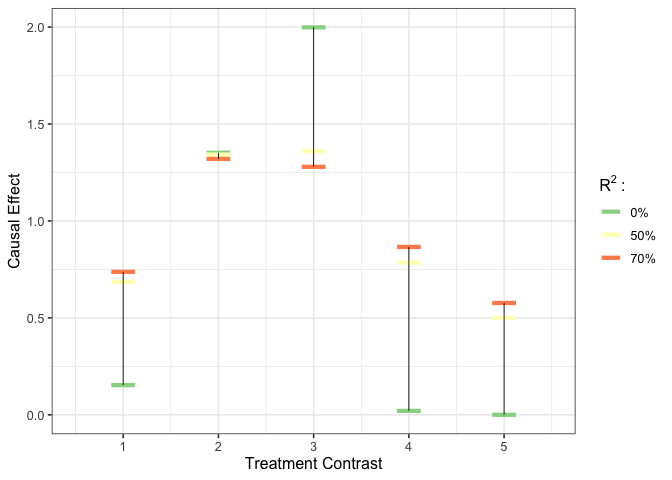
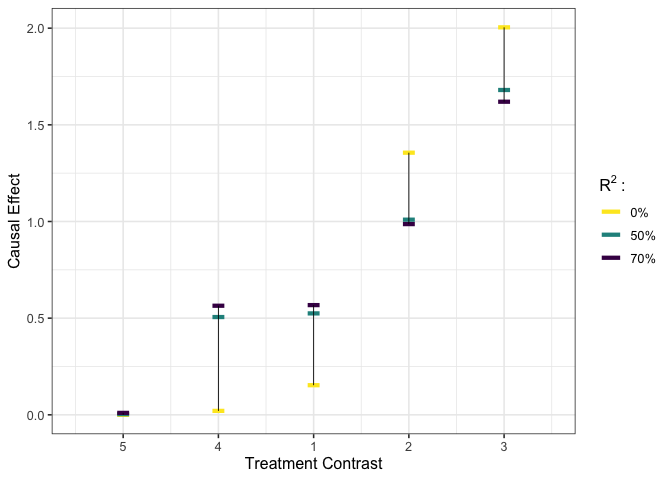
make code compatible with previous cal_rv, plot_estimates changes

diff --git a/README.md b/README.md
@@ -183,14 +183,20 @@ t2 <- matrix(0, ncol = k, nrow = k)
 u_t_diff <- (t1 - t2) %*% t(coef_mu_u_t_hat)
 
 # worst-case calibration #
-R2 <- c(0.3, 0.6, 1)
+R2 <- c(0.15, 0.5, 1)
 worstcase_results <- gcalibrate(y, tr, t1 = t1, t2 = t2, calitype = "worstcase",
                                   mu_y_dt = as.matrix(beta_t), sigma_y_t =  sigma_y_t_hat,
                                   mu_u_dt = u_t_diff, cov_u_t = cov_u_t_hat, R2 = R2)
 #> Worst-case calibration executed.
 rownames(worstcase_results$est_df) <- names(beta_t)
 names(worstcase_results$rv) <- names(beta_t)
+plot_estimates(worstcase_results, order = "worstcase", labels = names(beta_t),
+               axis.text.x = element_text(size = 10, angle = 75, hjust = 1))
+```
 
+<img src="man/figures/README-unnamed-chunk-5-1.png" width="85%" style="display: block; margin: auto;" />
+
+``` r
 ## multivariate calibration ##
 # with L1 norm #
 multcali_results_L1 <- gcalibrate(y, tr, t1 = t1, t2 = t2, calitype = "multicali",
@@ -260,16 +266,19 @@ The only exception, “2010002N04Rik”, whose causal effects by Miao et
 al. (2020) is, nevertheless, quite close to the lower bound.
 
 ``` r
-bound_df <- tibble(x1 = 1:nrow(summary_df)*2,
+bound_df <- tibble(x1 = 1:nrow(summary_df),
                  y1 = summary_df$worstcase_lwr,
-                 x2 = 1:nrow(summary_df)*2,
+                 x2 = 1:nrow(summary_df),
                  y2 = summary_df$worstcase_upr)
+rv_labels <- worstcase_results$rv
+rv_labels[!is.na(worstcase_results$rv)] <- paste0(round(worstcase_results$rv[!is.na(worstcase_results$rv)]), "%")
+rv_labels[is.na(worstcase_results$rv)] <- "R"
 plot_L2NullWorst <-
-  data.frame(summary_df[,c(1,3,4,6:7)], case = 1:nrow(summary_df)*2) %>%
+  data.frame(summary_df[,c(1,3,4,6:7)], case = 1:nrow(summary_df)) %>%
     gather(key = "Type", value = "effect", - case) %>%
     ggplot() +
     ungeviz::geom_hpline(aes(x = case, y = effect, col = Type),
-                         width = 0.5, size = 1, alpha = 0.8)  +
+                         width = 0.4, size = 1, alpha = 0.8)  +
     geom_segment(data = bound_df, aes(x=x1, y=y1, xend=x2, yend=y2)) +
     scale_colour_manual(name = "",
                         values = c("#FFC300", "#F5191C", "#3B99B1", "black", "black"),
@@ -279,10 +288,10 @@ plot_L2NullWorst <-
                                    "naive",
                                    bquote("worstcase"~R^2~" = 1, lower"),
                                    bquote("worstcase"~R^2~" = 1, upper"))) +
-    scale_x_continuous(breaks = (1:k)*2, labels = order_name,
-                       limits = c(0.5, k*2 + 1.2)) +
-    annotate(geom = "text", x = 1:nrow(summary_df)*2 + 1.1, y = worstcase_results$est_df[order_name,'R2_0'],
-                      size = 3, label = worstcase_results$rv[order_name]) +
+    scale_x_continuous(breaks = (1:k), labels = order_name,
+                       limits = c(1, k + 1.2)) +
+    annotate(geom = "text", x = 1:nrow(summary_df) + 0.4, y = worstcase_results$est_df[order_name,'R2_0'],
+                      size = 3, label = rv_labels[order_name]) +
     labs(y = "Causal Effect", x = "") +
     theme_bw(base_size = 14) +
     theme(plot.title = element_text(hjust = 0.5),
